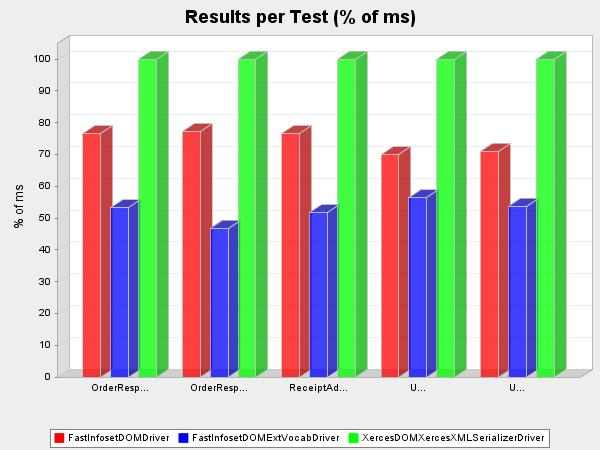
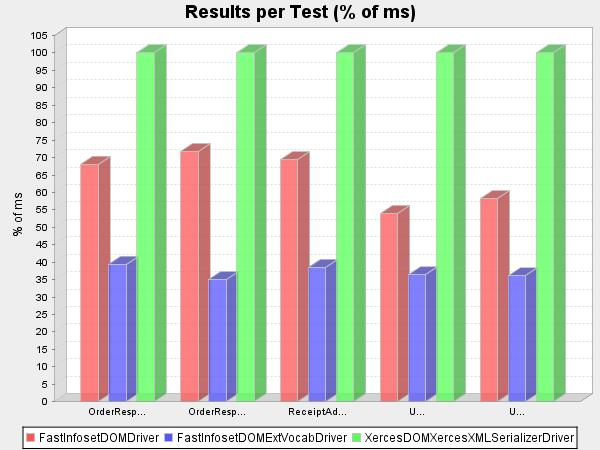
update from reports/UBLFIpex/2006_01_13_00_02

diff --git a/www/performance-reports/UBL/serialize/report.html b/www/performance-reports/UBL/serialize/report.html
@@ -1,4 +1,15 @@
-<?xml version="1.0" encoding="UTF-8"?><html xmlns="http://www.w3.org/1999/xhtml" xmlns:extrep="http://www.sun.com/japex/extendedTestSuiteReport" xmlns:rep="http://www.sun.com/japex/testSuiteReport"><link href="report.css" type="text/css" rel="stylesheet"/><head><h1>Japex Report: UBL-serialize-index</h1></head><body><ul><li>classPath: /export/home/ps23762/Projects/zarya.east/JapexXMLDriverLibrary/dist/JapexXMLDriverLibrary.jar</li><li>dateTime: 09 Sep 2005/19:51:16 CEST</li><li>numberOfThreads: 1</li><li>osArchitecture: x86</li><li>osName: SunOS</li><li>reportsDirectory: reports</li><li>resultUnit: ms</li><li>runsPerDriver: 1</li><li>runTime: 5</li><li>version: 0.100</li><li>vmInfo: Sun Microsystems Inc. 1.5.0_04-b05</li><li>warmupTime: 5</li></ul><h2>Result Summary 
-    (ms)</h2><table width="80%" border="1"><thead><tr><th width="15%"><b>driver</b></th><th><b>resultAritMean</b></th><th><b>resultHarmMean</b></th><th><b>resultGeomMean</b></th><th><b>driverClass</b></th></tr></thead><tbody><tr><td align="right">FastInfosetDOMDriver</td><td align="right"><nobr>0.139</nobr></td><td align="right"><nobr>0.098</nobr></td><td align="right"><nobr>0.122</nobr></td><td align="right"><nobr>com.sun.japex.jdsl.xml.serialize.dom.FastInfosetDOMDriver</nobr></td></tr><tr><td align="right">FastInfosetDOMExtVocabDriver</td><td align="right"><nobr>0.099</nobr></td><td align="right"><nobr>0.065</nobr></td><td align="right"><nobr>0.085</nobr></td><td align="right"><nobr>com.sun.japex.jdsl.xml.serialize.dom.FastInfosetDOMDriver</nobr></td><td align="left"><nobr>true</nobr></td></tr><tr><td align="right">XercesDOMXercesXMLSerializerDriver</td><td align="right"><nobr>0.186</nobr></td><td align="right"><nobr>0.145</nobr></td><td align="right"><nobr>0.169</nobr></td><td align="right"><nobr>com.sun.japex.jdsl.xml.serialize.dom.XercesDOMXercesXMLSerializerDriver</nobr></td></tr></tbody></table><br/><br/><center><img src="result.jpg"/></center><br/><br/><h2>Driver: FastInfosetDOMDriver</h2><table width="80%" border="1"><thead><tr><th><b>testCase</b></th><th><b>resultValue</b></th><th><b>xmlfile</b></th></tr></thead><tbody><tr><td align="right">DespatchAdvice.xml</td><td align="right"><nobr>0.149</nobr></td><td align="left"><nobr>data/DespatchAdvice.xml</nobr></td></tr><tr><td align="right">Invoice.xml</td><td align="right"><nobr>0.239</nobr></td><td align="left"><nobr>data/Invoice.xml</nobr></td></tr><tr><td align="right">Order.xml</td><td align="right"><nobr>0.153</nobr></td><td align="left"><nobr>data/Order.xml</nobr></td></tr><tr><td align="right">OrderCancellation.xml</td><td align="right"><nobr>0.104</nobr></td><td align="left"><nobr>data/OrderCancellation.xml</nobr></td></tr><tr><td align="right">OrderChange.xml</td><td align="right"><nobr>0.171</nobr></td><td align="left"><nobr>data/OrderChange.xml</nobr></td></tr><tr><td align="right">OrderResponse.xml</td><td align="right"><nobr>0.185</nobr></td><td align="left"><nobr>data/OrderResponse.xml</nobr></td></tr><tr><td align="right">OrderResponseSimple.xml</td><td align="right"><nobr>0.103</nobr></td><td align="left"><nobr>data/OrderResponseSimple.xml</nobr></td></tr><tr><td align="right">ReceiptAdvice.xml</td><td align="right"><nobr>0.154</nobr></td><td align="left"><nobr>data/ReceiptAdvice.xml</nobr></td></tr><tr><td align="right">UBL-DespatchAdvice-1.0-Joinery-Example.xml</td><td align="right"><nobr>0.144</nobr></td><td align="left"><nobr>data/UBL-DespatchAdvice-1.0-Joinery-Example.xml</nobr></td></tr><tr><td align="right">UBL-DespatchAdvice-1.0-Office-Example.xml</td><td align="right"><nobr>0.115</nobr></td><td align="left"><nobr>data/UBL-DespatchAdvice-1.0-Office-Example.xml</nobr></td></tr><tr><td align="right">UBL-Invoice-1.0-Joinery-Example.xml</td><td align="right"><nobr>0.267</nobr></td><td align="left"><nobr>data/UBL-Invoice-1.0-Joinery-Example.xml</nobr></td></tr><tr><td align="right">UBL-Invoice-1.0-Office-Example.xml</td><td align="right"><nobr>0.164</nobr></td><td align="left"><nobr>data/UBL-Invoice-1.0-Office-Example.xml</nobr></td></tr><tr><td align="right">UBL-Order-1.0-Joinery-Example.xml</td><td align="right"><nobr>0.128</nobr></td><td align="left"><nobr>data/UBL-Order-1.0-Joinery-Example.xml</nobr></td></tr><tr><td align="right">UBL-Order-1.0-Office-Example.xml</td><td align="right"><nobr>0.120</nobr></td><td align="left"><nobr>data/UBL-Order-1.0-Office-Example.xml</nobr></td></tr><tr><td align="right">UBL-OrderCancellation-1.0-Office-Example.xml</td><td align="right"><nobr>0.027</nobr></td><td align="left"><nobr>data/UBL-OrderCancellation-1.0-Office-Example.xml</nobr></td></tr><tr><td align="right">UBL-OrderChange-1.0-Office-Example.xml</td><td align="right"><nobr>0.131</nobr></td><td align="left"><nobr>data/UBL-OrderChange-1.0-Office-Example.xml</nobr></td></tr><tr><td align="right">UBL-OrderResponse-1.0-Joinery-Example.xml</td><td align="right"><nobr>0.169</nobr></td><td align="left"><nobr>data/UBL-OrderResponse-1.0-Joinery-Example.xml</nobr></td></tr><tr><td align="right">UBL-OrderResponseSimple-1.0-Office-Example.xml</td><td align="right"><nobr>0.028</nobr></td><td align="left"><nobr>data/UBL-OrderResponseSimple-1.0-Office-Example.xml</nobr></td></tr><tr><td align="right">UBL-ReceiptAdvice-1.0-Office-Example.xml</td><td align="right"><nobr>0.083</nobr></td><td align="left"><nobr>data/UBL-ReceiptAdvice-1.0-Office-Example.xml</nobr></td></tr></tbody></table><h2>Driver: FastInfosetDOMExtVocabDriver</h2><table width="80%" border="1"><thead><tr><th><b>testCase</b></th><th><b>resultValue</b></th><th><b>xmlfile</b></th></tr></thead><tbody><tr><td align="right">DespatchAdvice.xml</td><td align="right"><nobr>0.098</nobr></td><td align="left"><nobr>data/DespatchAdvice.xml</nobr></td></tr><tr><td align="right">Invoice.xml</td><td align="right"><nobr>0.166</nobr></td><td align="left"><nobr>data/Invoice.xml</nobr></td></tr><tr><td align="right">Order.xml</td><td align="right"><nobr>0.098</nobr></td><td align="left"><nobr>data/Order.xml</nobr></td></tr><tr><td align="right">OrderCancellation.xml</td><td align="right"><nobr>0.063</nobr></td><td align="left"><nobr>data/OrderCancellation.xml</nobr></td></tr><tr><td align="right">OrderChange.xml</td><td align="right"><nobr>0.113</nobr></td><td align="left"><nobr>data/OrderChange.xml</nobr></td></tr><tr><td align="right">OrderResponse.xml</td><td align="right"><nobr>0.129</nobr></td><td align="left"><nobr>data/OrderResponse.xml</nobr></td></tr><tr><td align="right">OrderResponseSimple.xml</td><td align="right"><nobr>0.063</nobr></td><td align="left"><nobr>data/OrderResponseSimple.xml</nobr></td></tr><tr><td align="right">ReceiptAdvice.xml</td><td align="right"><nobr>0.104</nobr></td><td align="left"><nobr>data/ReceiptAdvice.xml</nobr></td></tr><tr><td align="right">UBL-DespatchAdvice-1.0-Joinery-Example.xml</td><td align="right"><nobr>0.116</nobr></td><td align="left"><nobr>data/UBL-DespatchAdvice-1.0-Joinery-Example.xml</nobr></td></tr><tr><td align="right">UBL-DespatchAdvice-1.0-Office-Example.xml</td><td align="right"><nobr>0.087</nobr></td><td align="left"><nobr>data/UBL-DespatchAdvice-1.0-Office-Example.xml</nobr></td></tr><tr><td align="right">UBL-Invoice-1.0-Joinery-Example.xml</td><td align="right"><nobr>0.201</nobr></td><td align="left"><nobr>data/UBL-Invoice-1.0-Joinery-Example.xml</nobr></td></tr><tr><td align="right">UBL-Invoice-1.0-Office-Example.xml</td><td align="right"><nobr>0.124</nobr></td><td align="left"><nobr>data/UBL-Invoice-1.0-Office-Example.xml</nobr></td></tr><tr><td align="right">UBL-Order-1.0-Joinery-Example.xml</td><td align="right"><nobr>0.103</nobr></td><td align="left"><nobr>data/UBL-Order-1.0-Joinery-Example.xml</nobr></td></tr><tr><td align="right">UBL-Order-1.0-Office-Example.xml</td><td align="right"><nobr>0.092</nobr></td><td align="left"><nobr>data/UBL-Order-1.0-Office-Example.xml</nobr></td></tr><tr><td align="right">UBL-OrderCancellation-1.0-Office-Example.xml</td><td align="right"><nobr>0.016</nobr></td><td align="left"><nobr>data/UBL-OrderCancellation-1.0-Office-Example.xml</nobr></td></tr><tr><td align="right">UBL-OrderChange-1.0-Office-Example.xml</td><td align="right"><nobr>0.102</nobr></td><td align="left"><nobr>data/UBL-OrderChange-1.0-Office-Example.xml</nobr></td></tr><tr><td align="right">UBL-OrderResponse-1.0-Joinery-Example.xml</td><td align="right"><nobr>0.133</nobr></td><td align="left"><nobr>data/UBL-OrderResponse-1.0-Joinery-Example.xml</nobr></td></tr><tr><td align="right">UBL-OrderResponseSimple-1.0-Office-Example.xml</td><td align="right"><nobr>0.017</nobr></td><td align="left"><nobr>data/UBL-OrderResponseSimple-1.0-Office-Example.xml</nobr></td></tr><tr><td align="right">UBL-ReceiptAdvice-1.0-Office-Example.xml</td><td align="right"><nobr>0.058</nobr></td><td align="left"><nobr>data/UBL-ReceiptAdvice-1.0-Office-Example.xml</nobr></td></tr></tbody></table><h2>Driver: XercesDOMXercesXMLSerializerDriver</h2><table width="80%" border="1"><thead><tr><th><b>testCase</b></th><th><b>resultValue</b></th><th><b>xmlfile</b></th></tr></thead><tbody><tr><td align="right">DespatchAdvice.xml</td><td align="right"><nobr>0.192</nobr></td><td align="left"><nobr>data/DespatchAdvice.xml</nobr></td></tr><tr><td align="right">Invoice.xml</td><td align="right"><nobr>0.302</nobr></td><td align="left"><nobr>data/Invoice.xml</nobr></td></tr><tr><td align="right">Order.xml</td><td align="right"><nobr>0.191</nobr></td><td align="left"><nobr>data/Order.xml</nobr></td></tr><tr><td align="right">OrderCancellation.xml</td><td align="right"><nobr>0.135</nobr></td><td align="left"><nobr>data/OrderCancellation.xml</nobr></td></tr><tr><td align="right">OrderChange.xml</td><td align="right"><nobr>0.222</nobr></td><td align="left"><nobr>data/OrderChange.xml</nobr></td></tr><tr><td align="right">OrderResponse.xml</td><td align="right"><nobr>0.242</nobr></td><td align="left"><nobr>data/OrderResponse.xml</nobr></td></tr><tr><td align="right">OrderResponseSimple.xml</td><td align="right"><nobr>0.134</nobr></td><td align="left"><nobr>data/OrderResponseSimple.xml</nobr></td></tr><tr><td align="right">ReceiptAdvice.xml</td><td align="right"><nobr>0.201</nobr></td><td align="left"><nobr>data/ReceiptAdvice.xml</nobr></td></tr><tr><td align="right">UBL-DespatchAdvice-1.0-Joinery-Example.xml</td><td align="right"><nobr>0.206</nobr></td><td align="left"><nobr>data/UBL-DespatchAdvice-1.0-Joinery-Example.xml</nobr></td></tr><tr><td align="right">UBL-DespatchAdvice-1.0-Office-Example.xml</td><td align="right"><nobr>0.162</nobr></td><td align="left"><nobr>data/UBL-DespatchAdvice-1.0-Office-Example.xml</nobr></td></tr><tr><td align="right">UBL-Invoice-1.0-Joinery-Example.xml</td><td align="right"><nobr>0.331</nobr></td><td align="left"><nobr>data/UBL-Invoice-1.0-Joinery-Example.xml</nobr></td></tr><tr><td align="right">UBL-Invoice-1.0-Office-Example.xml</td><td align="right"><nobr>0.219</nobr></td><td align="left"><nobr>data/UBL-Invoice-1.0-Office-Example.xml</nobr></td></tr><tr><td align="right">UBL-Order-1.0-Joinery-Example.xml</td><td align="right"><nobr>0.191</nobr></td><td align="left"><nobr>data/UBL-Order-1.0-Joinery-Example.xml</nobr></td></tr><tr><td align="right">UBL-Order-1.0-Office-Example.xml</td><td align="right"><nobr>0.171</nobr></td><td align="left"><nobr>data/UBL-Order-1.0-Office-Example.xml</nobr></td></tr><tr><td align="right">UBL-OrderCancellation-1.0-Office-Example.xml</td><td align="right"><nobr>0.048</nobr></td><td align="left"><nobr>data/UBL-OrderCancellation-1.0-Office-Example.xml</nobr></td></tr><tr><td align="right">UBL-OrderChange-1.0-Office-Example.xml</td><td align="right"><nobr>0.189</nobr></td><td align="left"><nobr>data/UBL-OrderChange-1.0-Office-Example.xml</nobr></td></tr><tr><td align="right">UBL-OrderResponse-1.0-Joinery-Example.xml</td><td align="right"><nobr>0.237</nobr></td><td align="left"><nobr>data/UBL-OrderResponse-1.0-Joinery-Example.xml</nobr></td></tr><tr><td align="right">UBL-OrderResponseSimple-1.0-Office-Example.xml</td><td align="right"><nobr>0.049</nobr></td><td align="left"><nobr>data/UBL-OrderResponseSimple-1.0-Office-Example.xml</nobr></td></tr><tr><td align="right">UBL-ReceiptAdvice-1.0-Office-Example.xml</td><td align="right"><nobr>0.114</nobr></td><td align="left"><nobr>data/UBL-ReceiptAdvice-1.0-Office-Example.xml</nobr></td></tr></tbody></table><br/><br/><center><img src="testcase0.jpg"/></center><br/><br/><br/><br/><center><img src="testcase1.jpg"/></center><br/><br/><br/><br/><center><img src="testcase2.jpg"/></center><br/><br/><br/><br/><center><img src="testcase3.jpg"/></center><br/><br/><br/><small><hr/><i><font size="-2">
+<?xml version="1.0" encoding="UTF-8"?><html xmlns="http://www.w3.org/1999/xhtml" xmlns:extrep="http://www.sun.com/japex/extendedTestSuiteReport" xmlns:rep="http://www.sun.com/japex/testSuiteReport"><link href="report.css" type="text/css" rel="stylesheet"/><head><h1>Japex Report: UBL-serialize</h1></head><body><ul><li>chartType: barchart</li><li>classPath: /export/home/hw123265/cvsroot/japex/dist/jdsl/FastInfoset.jar
+/export/home/hw123265/cvsroot/japex/dist/jdsl/activation.jar
+/export/home/hw123265/cvsroot/japex/dist/jdsl/jaxb-api.jar
+/export/home/hw123265/cvsroot/japex/dist/jdsl/jaxb-impl.jar
+/export/home/hw123265/cvsroot/japex/dist/jdsl/jaxb-xjc.jar
+/export/home/hw123265/cvsroot/japex/dist/jdsl/jaxb1-impl.jar
+/export/home/hw123265/cvsroot/japex/dist/jdsl/jdsl.jar
+/export/home/hw123265/cvsroot/japex/dist/jdsl/jsr173_api.jar
+/export/home/hw123265/cvsroot/japex/dist/jdsl/resolver.jar
+/export/home/hw123265/cvsroot/japex/dist/jdsl/sjsxp.jar
+/export/home/hw123265/cvsroot/japex/dist/jdsl/xercesImpl.jar
+/export/home/hw123265/cvsroot/japex/dist/jdsl/xml-apis.jar</li><li>configFile: serialize.xml</li><li>dateTime: 13 Jan 2006/00:02:15 EST</li><li>includeWarmupRun: false</li><li>numberOfThreads: 1</li><li>osArchitecture: x86</li><li>osName: SunOS</li><li>reportsDirectory: reports</li><li>resultAxis: normal</li><li>resultAxisX: normal</li><li>resultUnit: ms</li><li>runsPerDriver: 1</li><li>runTime: 5</li><li>version: 0.100</li><li>vmInfo: Sun Microsystems Inc. 1.5.0_04-b05</li><li>warmupTime: 5</li></ul><h2>Result Summary 
+    (ms)</h2><table width="80%" border="1"><thead><tr><th width="15%"><b>driver</b></th><th><b>resultAritMean</b></th><th><b>resultHarmMean</b></th><th><b>resultGeomMean</b></th><th><b>driverClass</b></th></tr></thead><tbody><tr><td align="right">FastInfosetDOMDriver</td><td align="right"><nobr>0.131</nobr></td><td align="right"><nobr>0.096</nobr></td><td align="right"><nobr>0.116</nobr></td><td align="right"><nobr>com.sun.japex.jdsl.xml.serialize.dom.FastInfosetDOMDriver</nobr></td></tr><tr><td align="right">FastInfosetDOMExtVocabDriver</td><td align="right"><nobr>0.076</nobr></td><td align="right"><nobr>0.050</nobr></td><td align="right"><nobr>0.066</nobr></td><td align="right"><nobr>com.sun.japex.jdsl.xml.serialize.dom.FastInfosetDOMDriver</nobr></td><td align="left"><nobr>true</nobr></td></tr><tr><td align="right">XercesDOMXercesXMLSerializerDriver</td><td align="right"><nobr>0.203</nobr></td><td align="right"><nobr>0.157</nobr></td><td align="right"><nobr>0.183</nobr></td><td align="right"><nobr>com.sun.japex.jdsl.xml.serialize.dom.XercesDOMXercesXMLSerializerDriver</nobr></td></tr></tbody></table><br/><br/><center><img src="result.jpg"/></center><br/><br/><h2>Driver: FastInfosetDOMDriver</h2><table width="80%" border="1"><thead><tr><th><b>testCase</b></th><th><b>resultValue</b></th><th><b>xmlfile</b></th></tr></thead><tbody><tr><td align="right">DespatchAdvice.xml</td><td align="right"><nobr>0.152</nobr></td><td align="left"><nobr>data/DespatchAdvice.xml</nobr></td></tr><tr><td align="right">Invoice.xml</td><td align="right"><nobr>0.241</nobr></td><td align="left"><nobr>data/Invoice.xml</nobr></td></tr><tr><td align="right">Order.xml</td><td align="right"><nobr>0.149</nobr></td><td align="left"><nobr>data/Order.xml</nobr></td></tr><tr><td align="right">OrderCancellation.xml</td><td align="right"><nobr>0.107</nobr></td><td align="left"><nobr>data/OrderCancellation.xml</nobr></td></tr><tr><td align="right">OrderChange.xml</td><td align="right"><nobr>0.174</nobr></td><td align="left"><nobr>data/OrderChange.xml</nobr></td></tr><tr><td align="right">OrderResponse.xml</td><td align="right"><nobr>0.184</nobr></td><td align="left"><nobr>data/OrderResponse.xml</nobr></td></tr><tr><td align="right">OrderResponseSimple.xml</td><td align="right"><nobr>0.105</nobr></td><td align="left"><nobr>data/OrderResponseSimple.xml</nobr></td></tr><tr><td align="right">ReceiptAdvice.xml</td><td align="right"><nobr>0.156</nobr></td><td align="left"><nobr>data/ReceiptAdvice.xml</nobr></td></tr><tr><td align="right">UBL-DespatchAdvice-1.0-Joinery-Example.xml</td><td align="right"><nobr>0.117</nobr></td><td align="left"><nobr>data/UBL-DespatchAdvice-1.0-Joinery-Example.xml</nobr></td></tr><tr><td align="right">UBL-DespatchAdvice-1.0-Office-Example.xml</td><td align="right"><nobr>0.102</nobr></td><td align="left"><nobr>data/UBL-DespatchAdvice-1.0-Office-Example.xml</nobr></td></tr><tr><td align="right">UBL-Invoice-1.0-Joinery-Example.xml</td><td align="right"><nobr>0.234</nobr></td><td align="left"><nobr>data/UBL-Invoice-1.0-Joinery-Example.xml</nobr></td></tr><tr><td align="right">UBL-Invoice-1.0-Office-Example.xml</td><td align="right"><nobr>0.155</nobr></td><td align="left"><nobr>data/UBL-Invoice-1.0-Office-Example.xml</nobr></td></tr><tr><td align="right">UBL-Order-1.0-Joinery-Example.xml</td><td align="right"><nobr>0.106</nobr></td><td align="left"><nobr>data/UBL-Order-1.0-Joinery-Example.xml</nobr></td></tr><tr><td align="right">UBL-Order-1.0-Office-Example.xml</td><td align="right"><nobr>0.110</nobr></td><td align="left"><nobr>data/UBL-Order-1.0-Office-Example.xml</nobr></td></tr><tr><td align="right">UBL-OrderCancellation-1.0-Office-Example.xml</td><td align="right"><nobr>0.029</nobr></td><td align="left"><nobr>data/UBL-OrderCancellation-1.0-Office-Example.xml</nobr></td></tr><tr><td align="right">UBL-OrderChange-1.0-Office-Example.xml</td><td align="right"><nobr>0.121</nobr></td><td align="left"><nobr>data/UBL-OrderChange-1.0-Office-Example.xml</nobr></td></tr><tr><td align="right">UBL-OrderResponse-1.0-Joinery-Example.xml</td><td align="right"><nobr>0.147</nobr></td><td align="left"><nobr>data/UBL-OrderResponse-1.0-Joinery-Example.xml</nobr></td></tr><tr><td align="right">UBL-OrderResponseSimple-1.0-Office-Example.xml</td><td align="right"><nobr>0.029</nobr></td><td align="left"><nobr>data/UBL-OrderResponseSimple-1.0-Office-Example.xml</nobr></td></tr><tr><td align="right">UBL-ReceiptAdvice-1.0-Office-Example.xml</td><td align="right"><nobr>0.078</nobr></td><td align="left"><nobr>data/UBL-ReceiptAdvice-1.0-Office-Example.xml</nobr></td></tr></tbody></table><h2>Driver: FastInfosetDOMExtVocabDriver</h2><table width="80%" border="1"><thead><tr><th><b>testCase</b></th><th><b>resultValue</b></th><th><b>xmlfile</b></th></tr></thead><tbody><tr><td align="right">DespatchAdvice.xml</td><td align="right"><nobr>0.079</nobr></td><td align="left"><nobr>data/DespatchAdvice.xml</nobr></td></tr><tr><td align="right">Invoice.xml</td><td align="right"><nobr>0.137</nobr></td><td align="left"><nobr>data/Invoice.xml</nobr></td></tr><tr><td align="right">Order.xml</td><td align="right"><nobr>0.076</nobr></td><td align="left"><nobr>data/Order.xml</nobr></td></tr><tr><td align="right">OrderCancellation.xml</td><td align="right"><nobr>0.052</nobr></td><td align="left"><nobr>data/OrderCancellation.xml</nobr></td></tr><tr><td align="right">OrderChange.xml</td><td align="right"><nobr>0.092</nobr></td><td align="left"><nobr>data/OrderChange.xml</nobr></td></tr><tr><td align="right">OrderResponse.xml</td><td align="right"><nobr>0.107</nobr></td><td align="left"><nobr>data/OrderResponse.xml</nobr></td></tr><tr><td align="right">OrderResponseSimple.xml</td><td align="right"><nobr>0.051</nobr></td><td align="left"><nobr>data/OrderResponseSimple.xml</nobr></td></tr><tr><td align="right">ReceiptAdvice.xml</td><td align="right"><nobr>0.087</nobr></td><td align="left"><nobr>data/ReceiptAdvice.xml</nobr></td></tr><tr><td align="right">UBL-DespatchAdvice-1.0-Joinery-Example.xml</td><td align="right"><nobr>0.079</nobr></td><td align="left"><nobr>data/UBL-DespatchAdvice-1.0-Joinery-Example.xml</nobr></td></tr><tr><td align="right">UBL-DespatchAdvice-1.0-Office-Example.xml</td><td align="right"><nobr>0.063</nobr></td><td align="left"><nobr>data/UBL-DespatchAdvice-1.0-Office-Example.xml</nobr></td></tr><tr><td align="right">UBL-Invoice-1.0-Joinery-Example.xml</td><td align="right"><nobr>0.144</nobr></td><td align="left"><nobr>data/UBL-Invoice-1.0-Joinery-Example.xml</nobr></td></tr><tr><td align="right">UBL-Invoice-1.0-Office-Example.xml</td><td align="right"><nobr>0.093</nobr></td><td align="left"><nobr>data/UBL-Invoice-1.0-Office-Example.xml</nobr></td></tr><tr><td align="right">UBL-Order-1.0-Joinery-Example.xml</td><td align="right"><nobr>0.072</nobr></td><td align="left"><nobr>data/UBL-Order-1.0-Joinery-Example.xml</nobr></td></tr><tr><td align="right">UBL-Order-1.0-Office-Example.xml</td><td align="right"><nobr>0.070</nobr></td><td align="left"><nobr>data/UBL-Order-1.0-Office-Example.xml</nobr></td></tr><tr><td align="right">UBL-OrderCancellation-1.0-Office-Example.xml</td><td align="right"><nobr>0.013</nobr></td><td align="left"><nobr>data/UBL-OrderCancellation-1.0-Office-Example.xml</nobr></td></tr><tr><td align="right">UBL-OrderChange-1.0-Office-Example.xml</td><td align="right"><nobr>0.078</nobr></td><td align="left"><nobr>data/UBL-OrderChange-1.0-Office-Example.xml</nobr></td></tr><tr><td align="right">UBL-OrderResponse-1.0-Joinery-Example.xml</td><td align="right"><nobr>0.095</nobr></td><td align="left"><nobr>data/UBL-OrderResponse-1.0-Joinery-Example.xml</nobr></td></tr><tr><td align="right">UBL-OrderResponseSimple-1.0-Office-Example.xml</td><td align="right"><nobr>0.013</nobr></td><td align="left"><nobr>data/UBL-OrderResponseSimple-1.0-Office-Example.xml</nobr></td></tr><tr><td align="right">UBL-ReceiptAdvice-1.0-Office-Example.xml</td><td align="right"><nobr>0.043</nobr></td><td align="left"><nobr>data/UBL-ReceiptAdvice-1.0-Office-Example.xml</nobr></td></tr></tbody></table><h2>Driver: XercesDOMXercesXMLSerializerDriver</h2><table width="80%" border="1"><thead><tr><th><b>testCase</b></th><th><b>resultValue</b></th><th><b>xmlfile</b></th></tr></thead><tbody><tr><td align="right">DespatchAdvice.xml</td><td align="right"><nobr>0.212</nobr></td><td align="left"><nobr>data/DespatchAdvice.xml</nobr></td></tr><tr><td align="right">Invoice.xml</td><td align="right"><nobr>0.337</nobr></td><td align="left"><nobr>data/Invoice.xml</nobr></td></tr><tr><td align="right">Order.xml</td><td align="right"><nobr>0.208</nobr></td><td align="left"><nobr>data/Order.xml</nobr></td></tr><tr><td align="right">OrderCancellation.xml</td><td align="right"><nobr>0.148</nobr></td><td align="left"><nobr>data/OrderCancellation.xml</nobr></td></tr><tr><td align="right">OrderChange.xml</td><td align="right"><nobr>0.248</nobr></td><td align="left"><nobr>data/OrderChange.xml</nobr></td></tr><tr><td align="right">OrderResponse.xml</td><td align="right"><nobr>0.271</nobr></td><td align="left"><nobr>data/OrderResponse.xml</nobr></td></tr><tr><td align="right">OrderResponseSimple.xml</td><td align="right"><nobr>0.146</nobr></td><td align="left"><nobr>data/OrderResponseSimple.xml</nobr></td></tr><tr><td align="right">ReceiptAdvice.xml</td><td align="right"><nobr>0.225</nobr></td><td align="left"><nobr>data/ReceiptAdvice.xml</nobr></td></tr><tr><td align="right">UBL-DespatchAdvice-1.0-Joinery-Example.xml</td><td align="right"><nobr>0.216</nobr></td><td align="left"><nobr>data/UBL-DespatchAdvice-1.0-Joinery-Example.xml</nobr></td></tr><tr><td align="right">UBL-DespatchAdvice-1.0-Office-Example.xml</td><td align="right"><nobr>0.175</nobr></td><td align="left"><nobr>data/UBL-DespatchAdvice-1.0-Office-Example.xml</nobr></td></tr><tr><td align="right">UBL-Invoice-1.0-Joinery-Example.xml</td><td align="right"><nobr>0.356</nobr></td><td align="left"><nobr>data/UBL-Invoice-1.0-Joinery-Example.xml</nobr></td></tr><tr><td align="right">UBL-Invoice-1.0-Office-Example.xml</td><td align="right"><nobr>0.242</nobr></td><td align="left"><nobr>data/UBL-Invoice-1.0-Office-Example.xml</nobr></td></tr><tr><td align="right">UBL-Order-1.0-Joinery-Example.xml</td><td align="right"><nobr>0.195</nobr></td><td align="left"><nobr>data/UBL-Order-1.0-Joinery-Example.xml</nobr></td></tr><tr><td align="right">UBL-Order-1.0-Office-Example.xml</td><td align="right"><nobr>0.186</nobr></td><td align="left"><nobr>data/UBL-Order-1.0-Office-Example.xml</nobr></td></tr><tr><td align="right">UBL-OrderCancellation-1.0-Office-Example.xml</td><td align="right"><nobr>0.053</nobr></td><td align="left"><nobr>data/UBL-OrderCancellation-1.0-Office-Example.xml</nobr></td></tr><tr><td align="right">UBL-OrderChange-1.0-Office-Example.xml</td><td align="right"><nobr>0.204</nobr></td><td align="left"><nobr>data/UBL-OrderChange-1.0-Office-Example.xml</nobr></td></tr><tr><td align="right">UBL-OrderResponse-1.0-Joinery-Example.xml</td><td align="right"><nobr>0.249</nobr></td><td align="left"><nobr>data/UBL-OrderResponse-1.0-Joinery-Example.xml</nobr></td></tr><tr><td align="right">UBL-OrderResponseSimple-1.0-Office-Example.xml</td><td align="right"><nobr>0.053</nobr></td><td align="left"><nobr>data/UBL-OrderResponseSimple-1.0-Office-Example.xml</nobr></td></tr><tr><td align="right">UBL-ReceiptAdvice-1.0-Office-Example.xml</td><td align="right"><nobr>0.125</nobr></td><td align="left"><nobr>data/UBL-ReceiptAdvice-1.0-Office-Example.xml</nobr></td></tr></tbody></table><br/><br/><center><img src="testcase0.jpg"/></center><br/><br/><br/><br/><center><img src="testcase1.jpg"/></center><br/><br/><br/><br/><center><img src="testcase2.jpg"/></center><br/><br/><br/><br/><center><img src="testcase3.jpg"/></center><br/><br/><br/><small><hr/><i><font size="-2">
         Author: Santiago Pericas-Geertsen (Sun Microsystems)
         </font></i></small></body></html>
